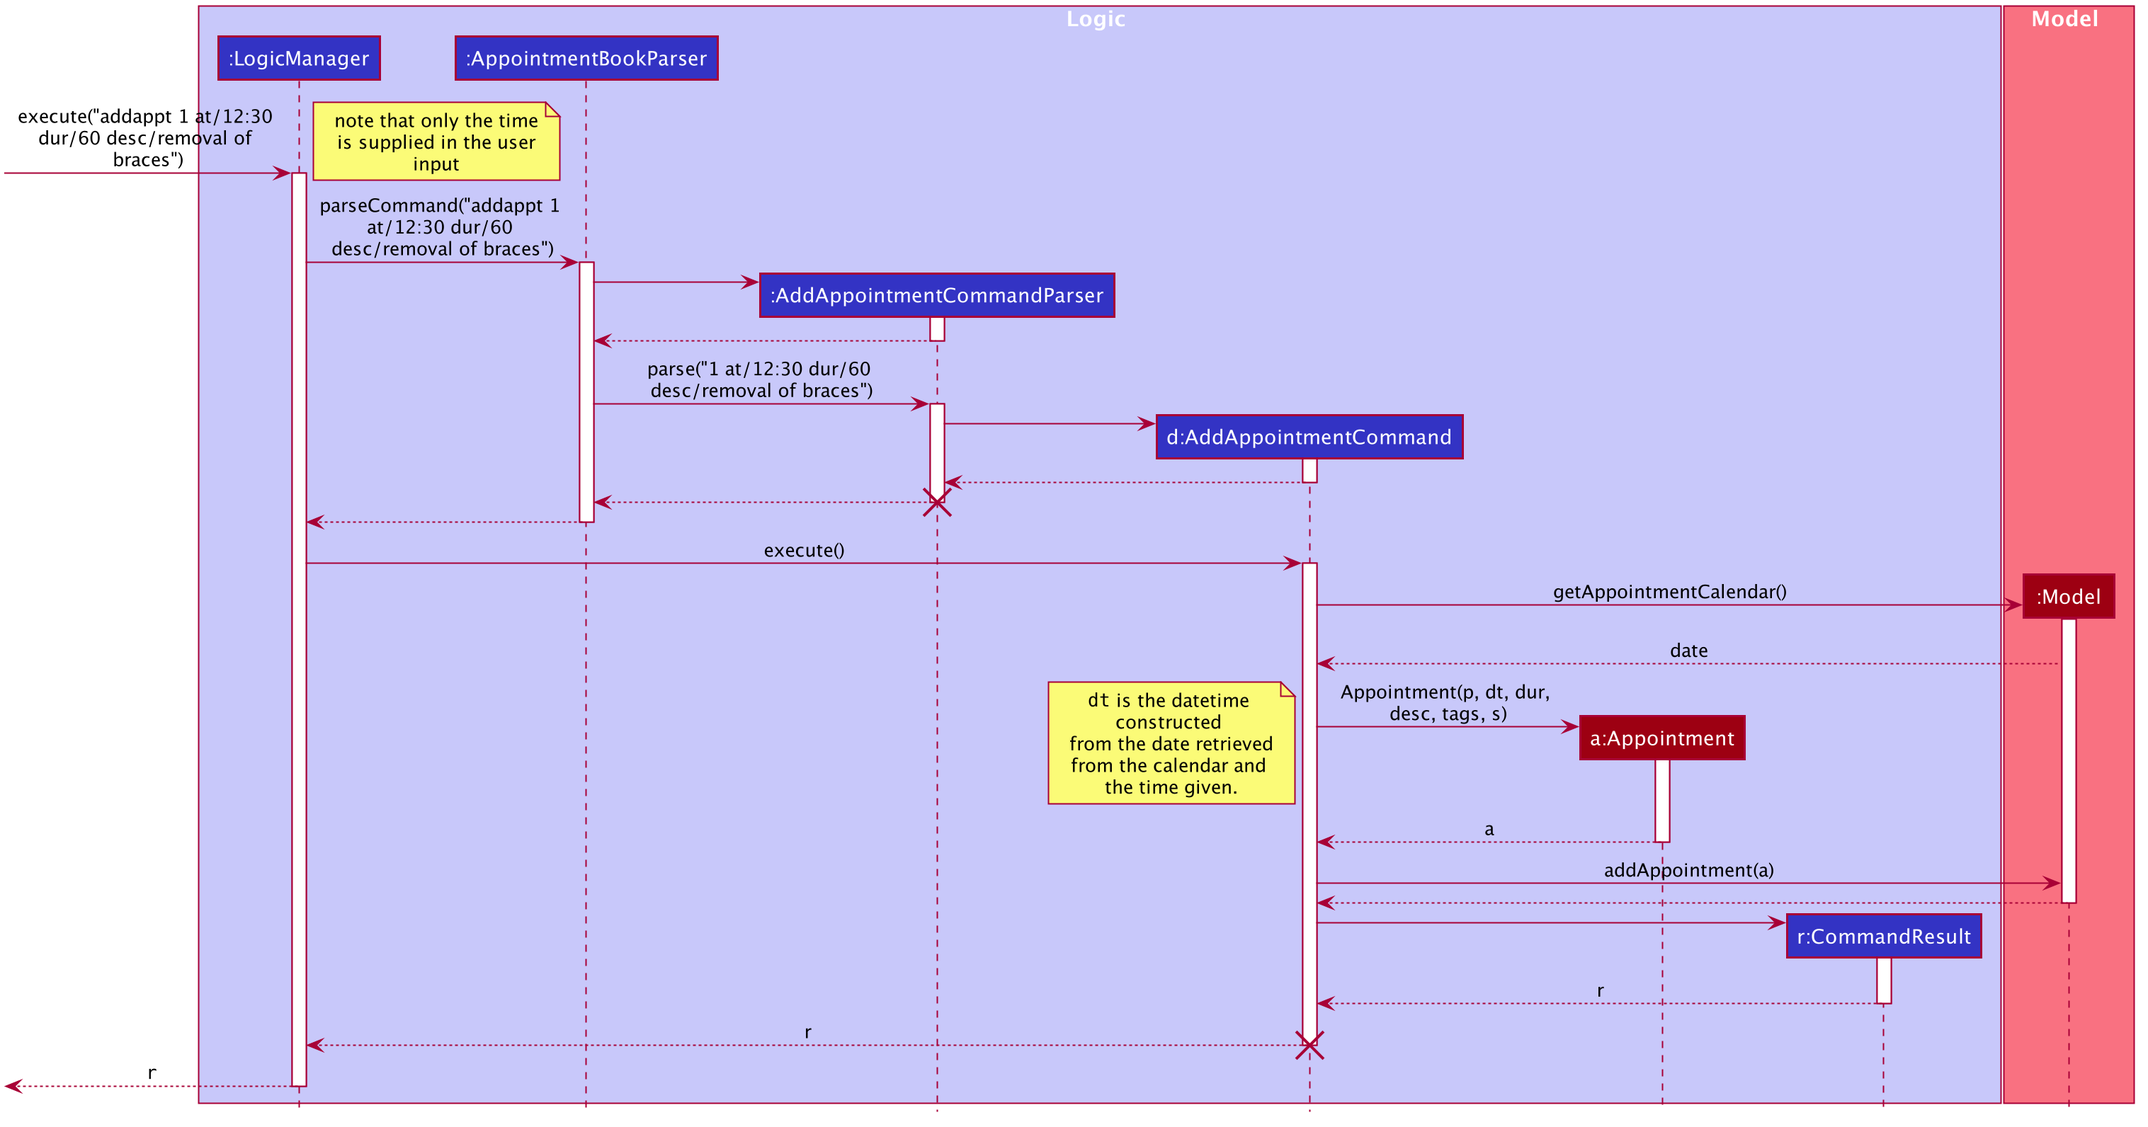
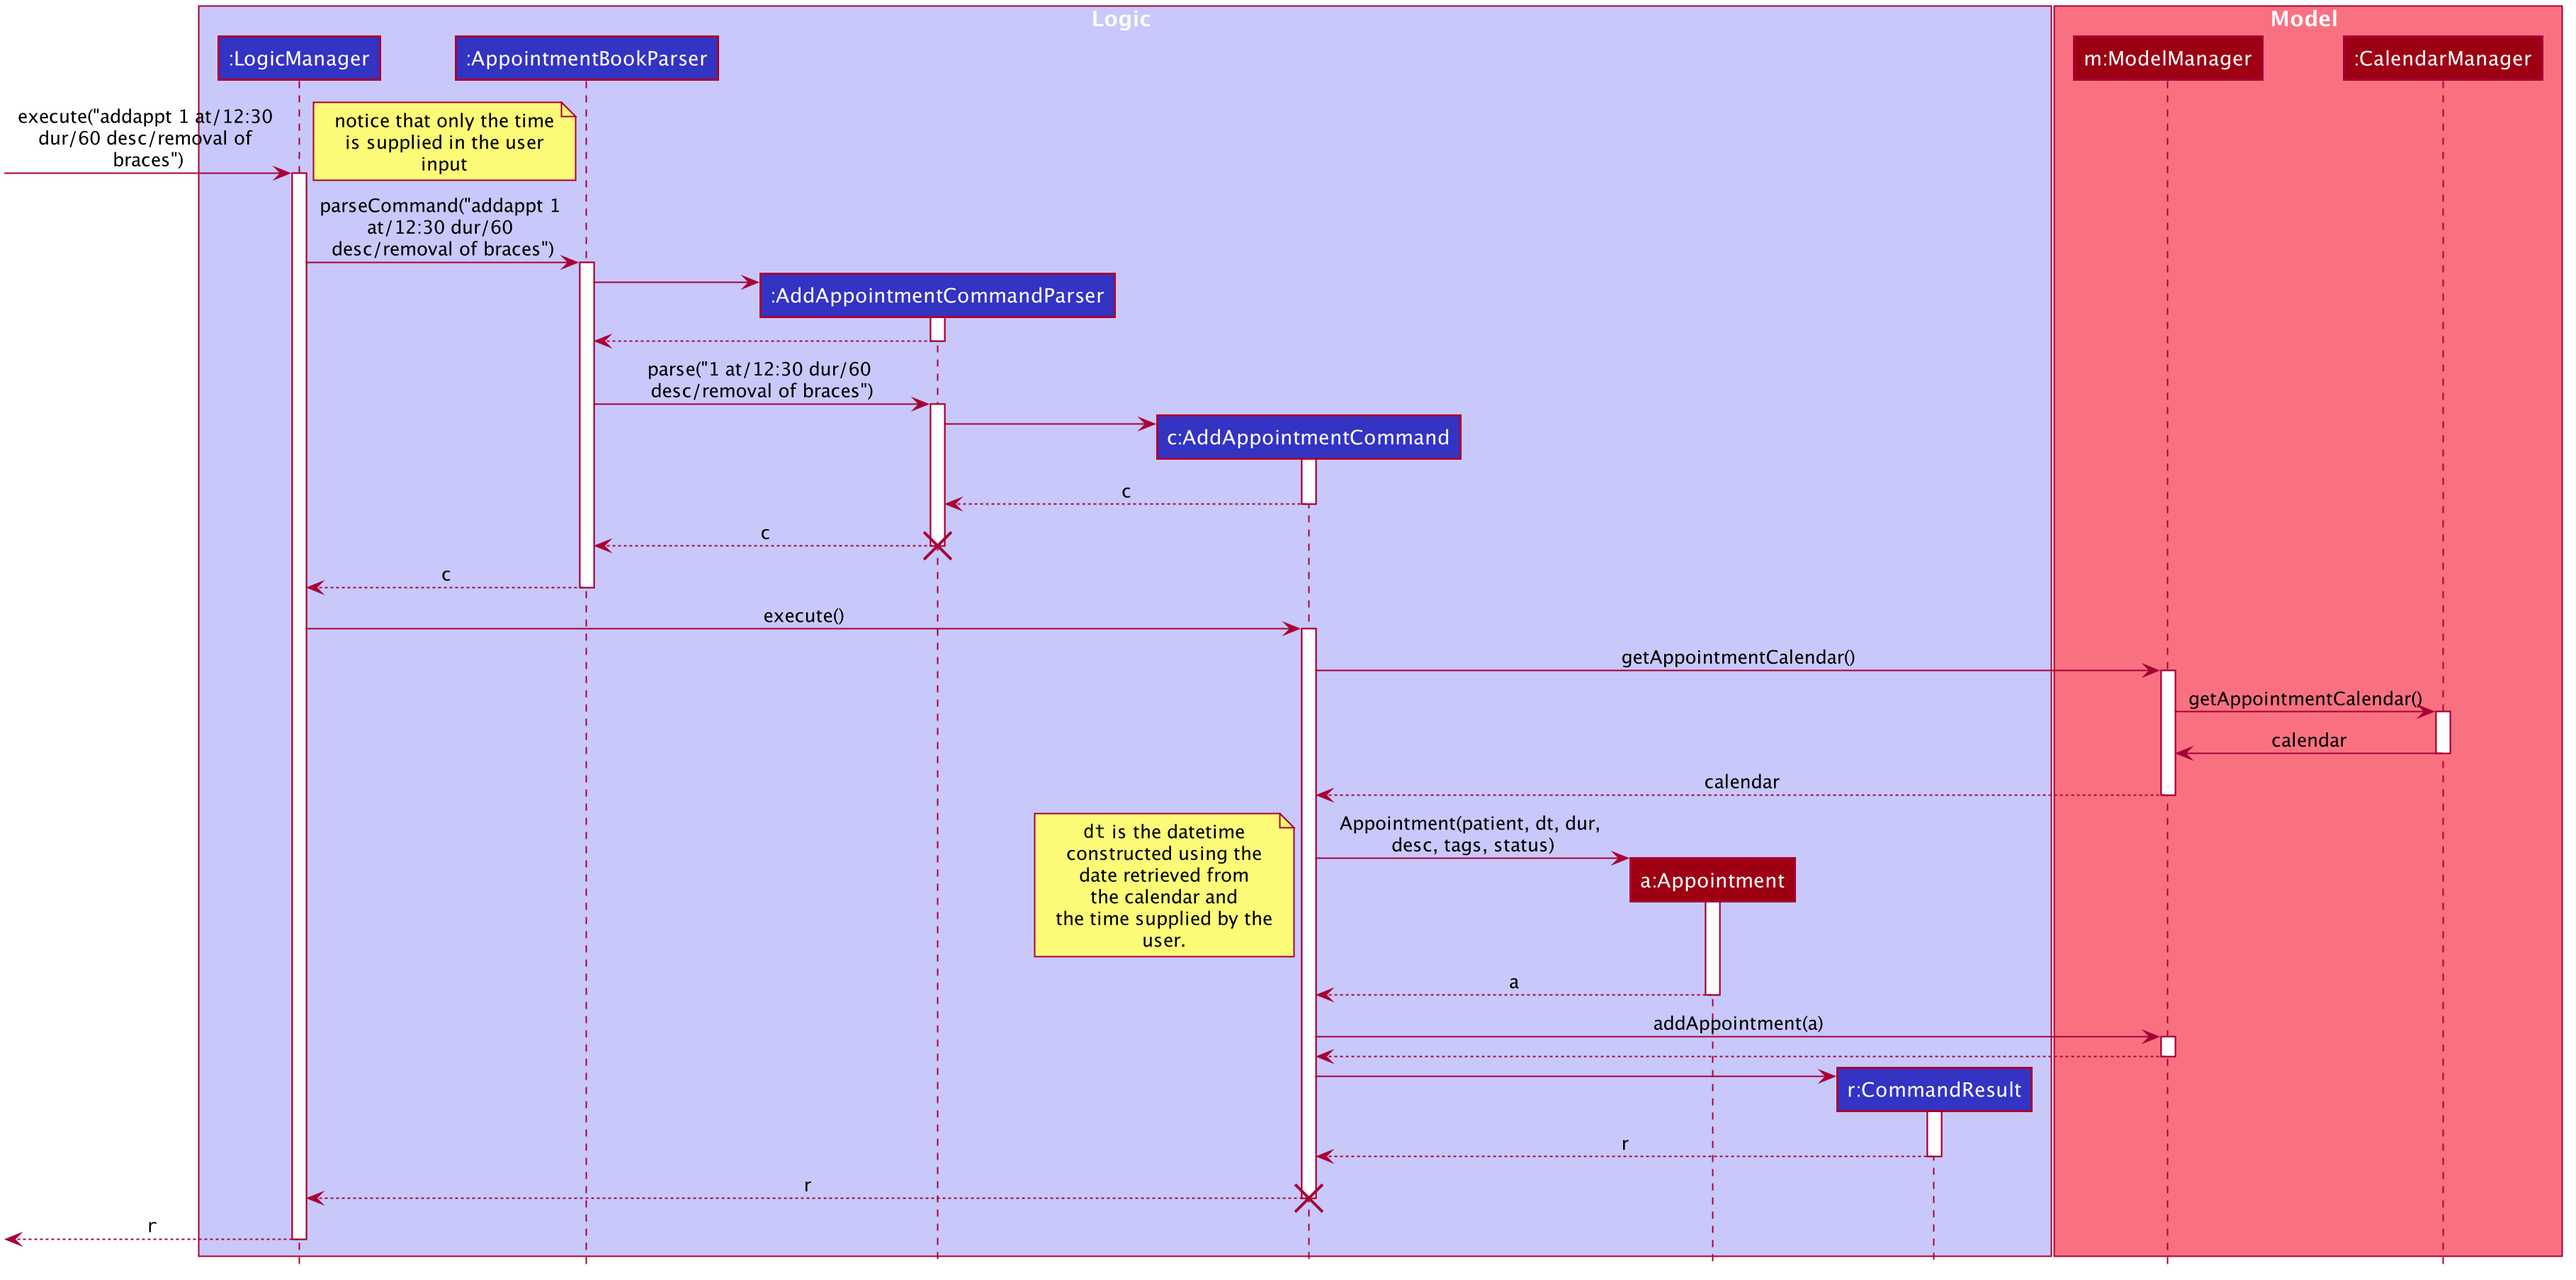
Fix errors in AddAppointmentSequenceDiagram

diff --git a/docs/DeveloperGuide.md b/docs/DeveloperGuide.md
@@ -420,12 +420,12 @@ existing list of patients before a valid `Appointment` object is created contain
 Baymax allows the user to manage appointments using a built-in calendar.
 The calendar brings greater convenience to the user by showing them what days are available in a month.
 It is also coupled with a schedule view that can be accessed by entering the `day` command, which shows the user
-all appointments on a chosen day, laid out chronologically on a timeline.
+all appointments on the chosen day, laid out chronologically on a timeline.
 
 #### 4.4.1 Rationale
 
 The Calendar feature is included in Baymax because it can shorten some commands by allowing the user to only specify
-the time, as the date can be directly inferred from the calendar. For example, in the Calendar 
+the time of appointments, as the date can be inferred from the calendar. For example, in the Calendar 
 Manager, a user can set a custom year, month and day. This influences the execution of the `addappt` command shown 
 in the sequence diagram below. In this example, suppose the user has set year to 2020, 
 month to February and day to 1, he can directly enter an `addappt` command that adds an appointment to 1, 
